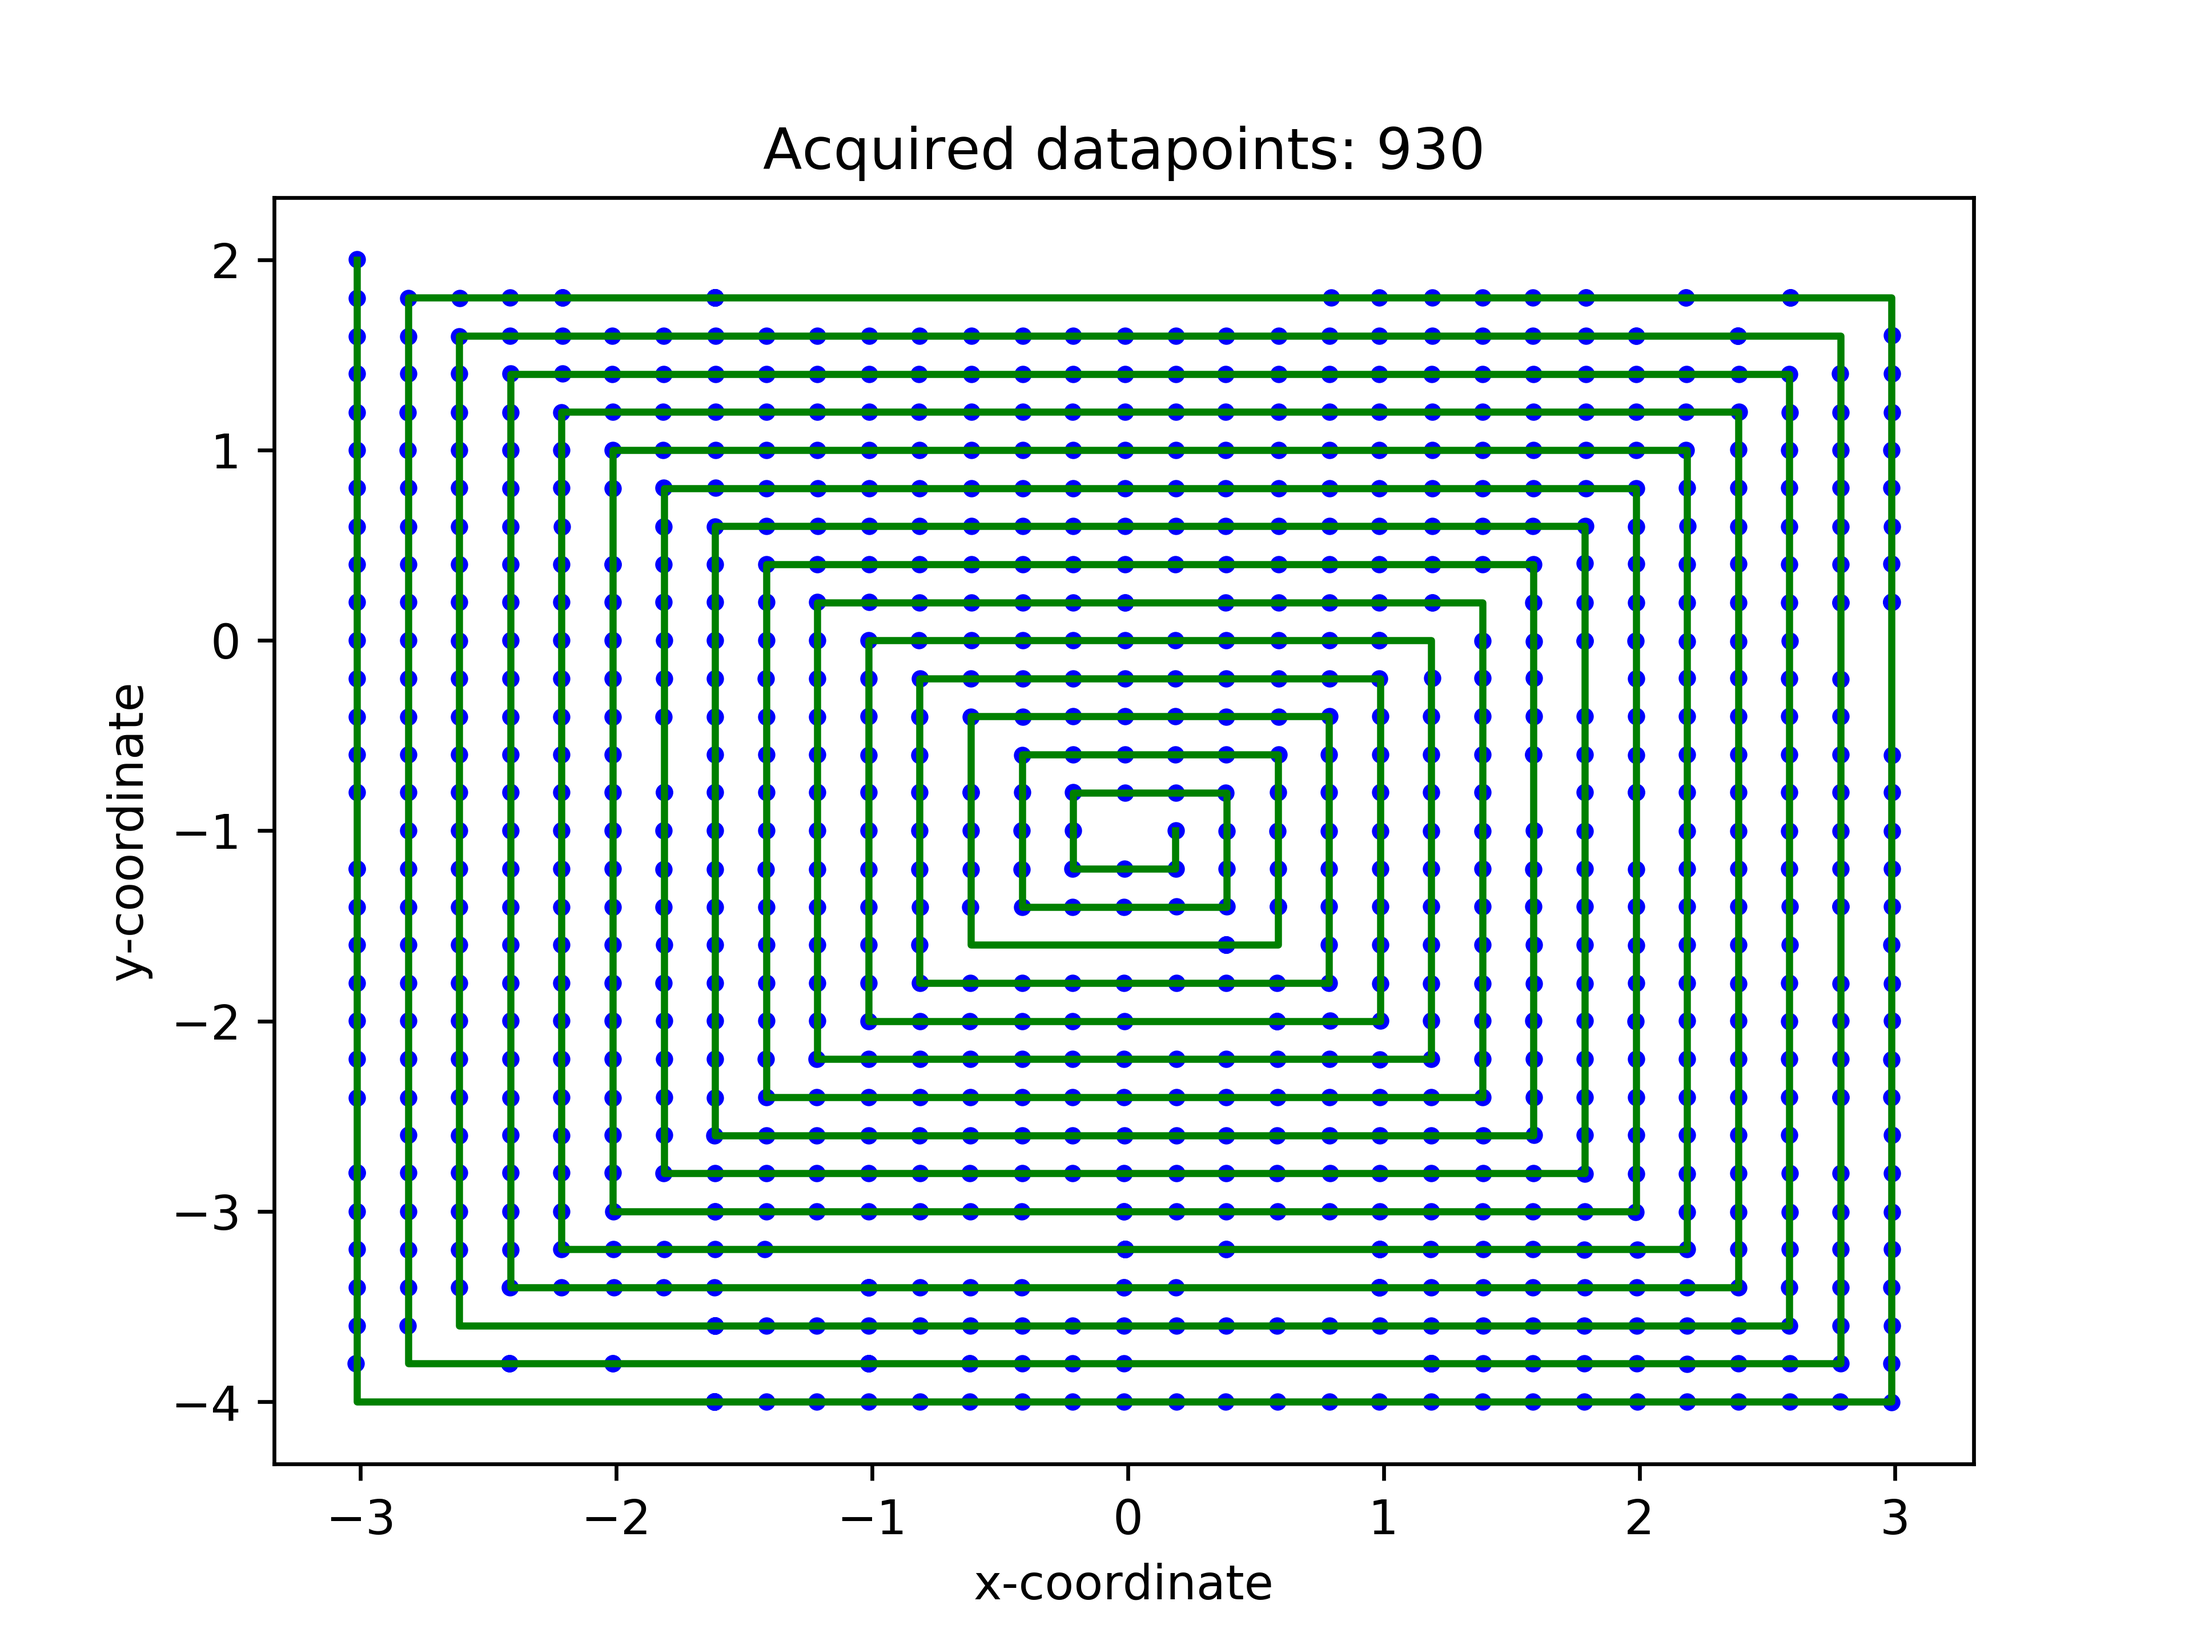
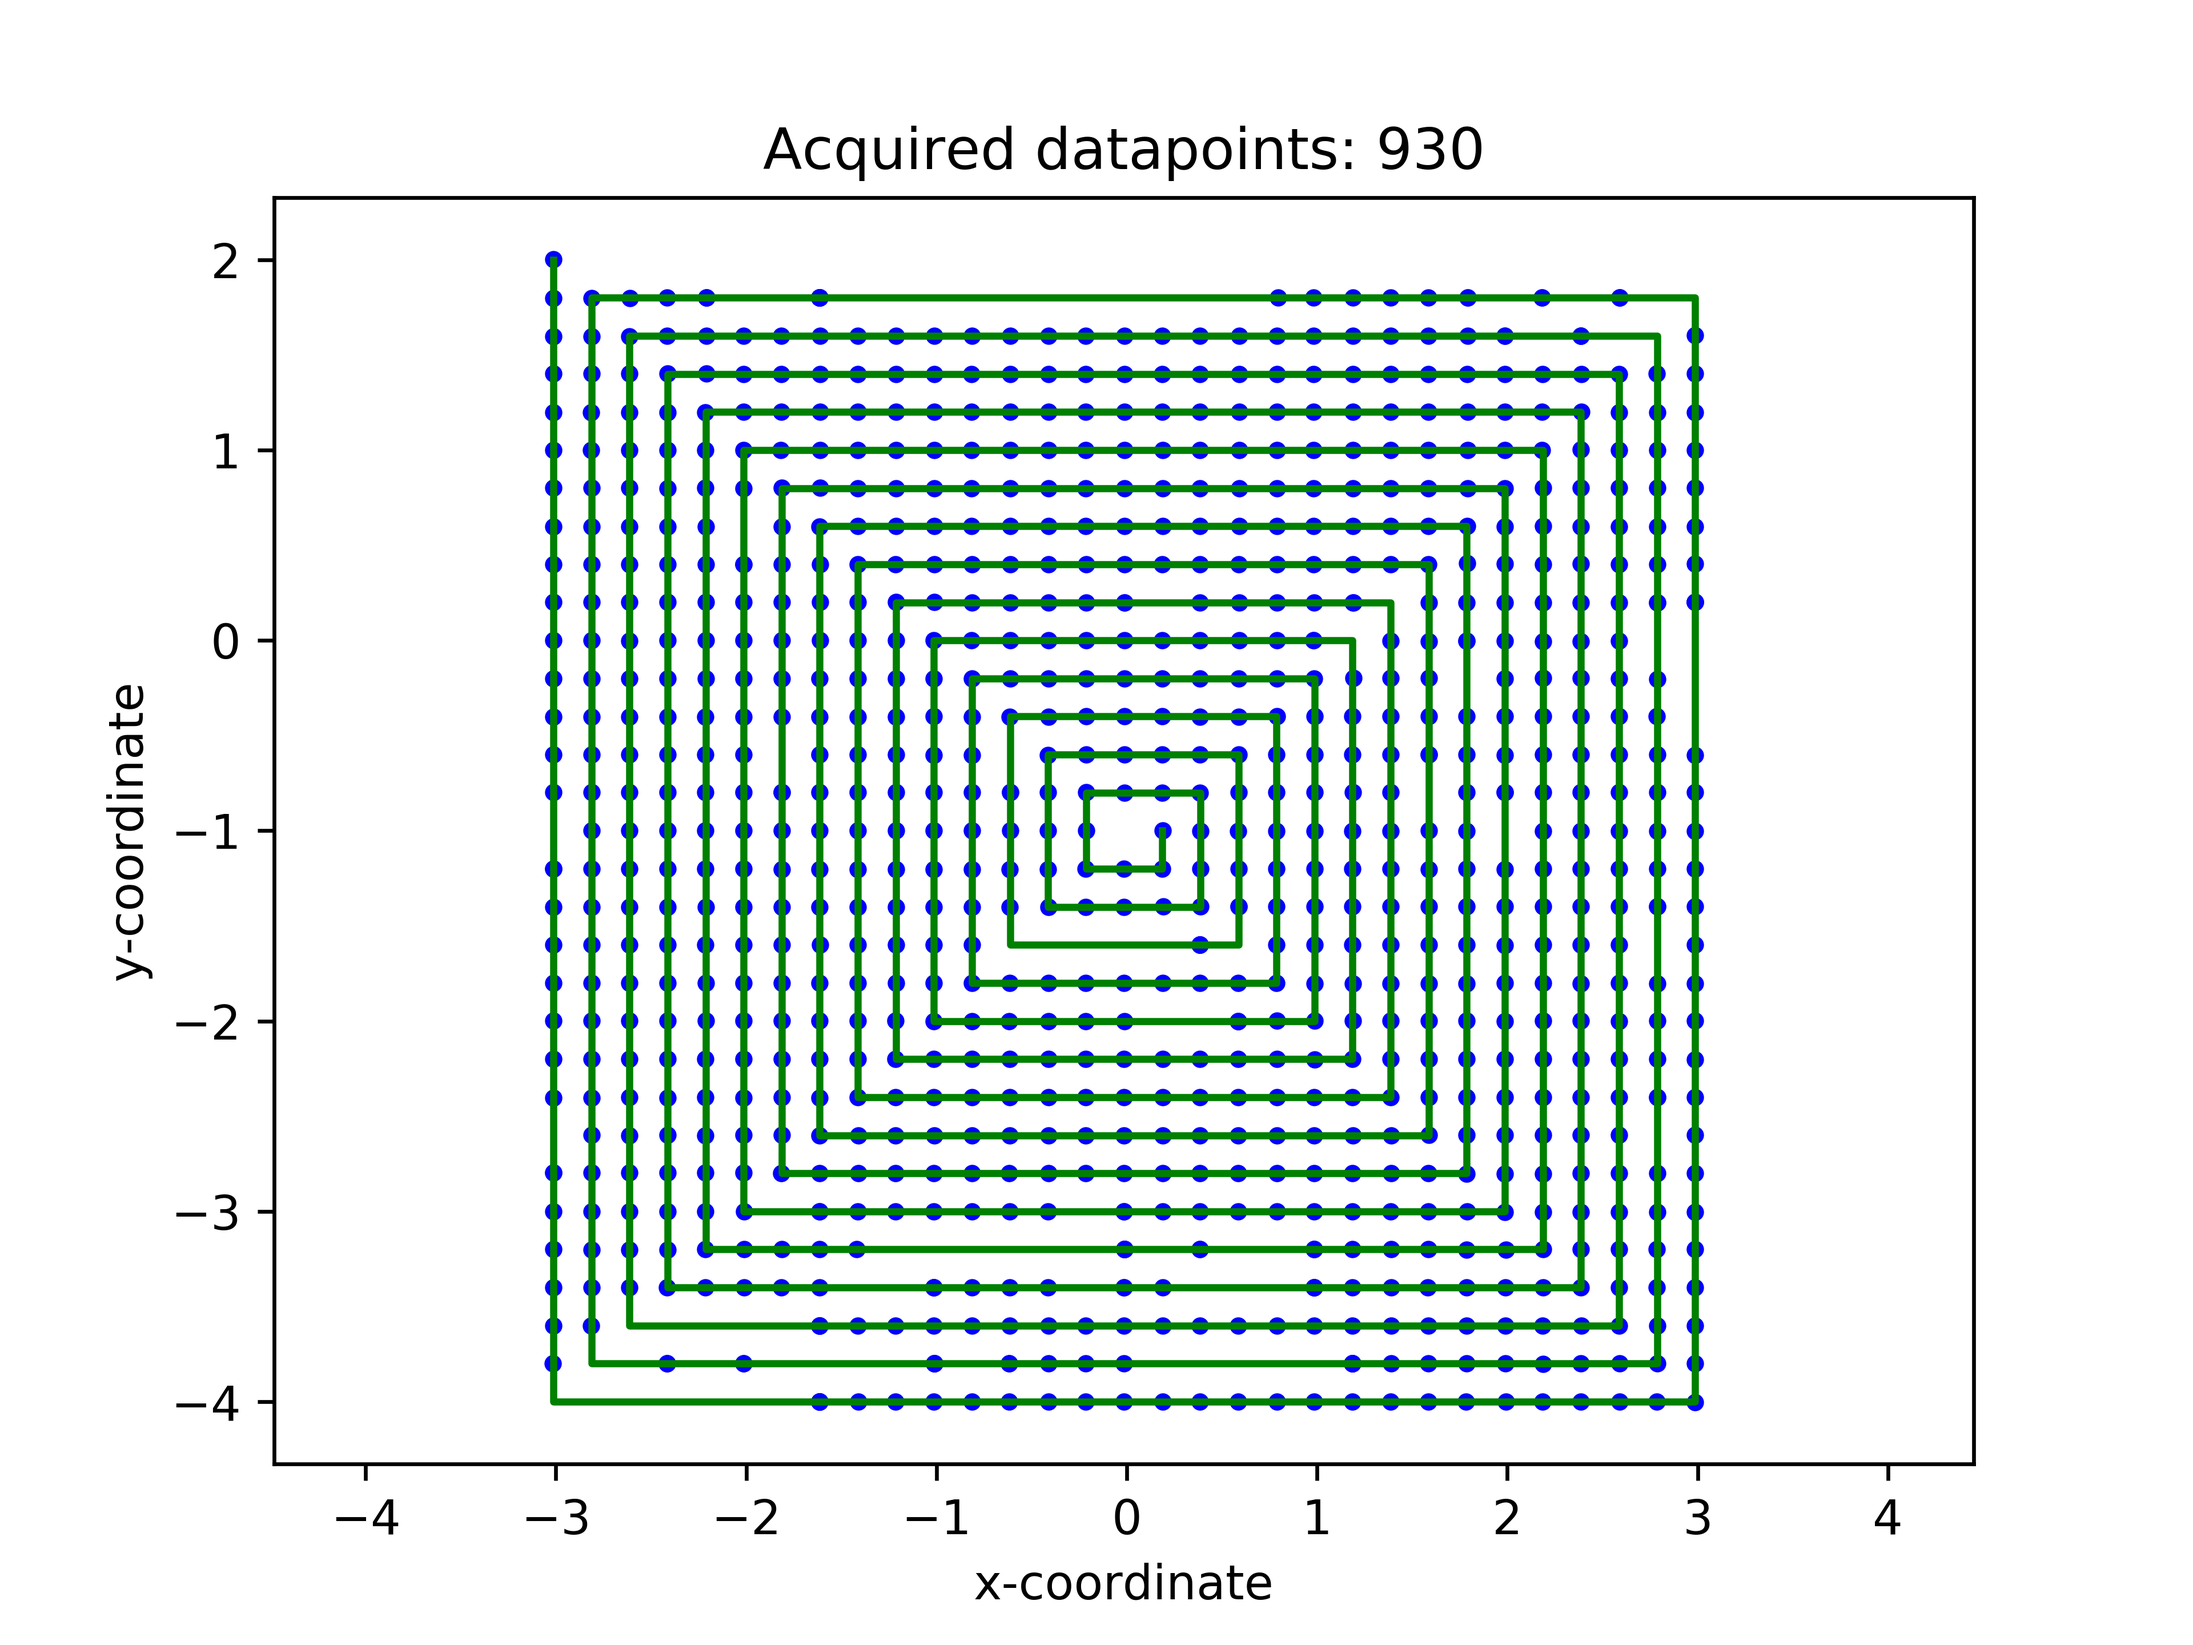
updated analysis

diff --git a/Dataanalysis_v01.py b/Dataanalysis_v01.py
@@ -6,13 +6,14 @@ Created on Wed Jun  1 14:15:40 2022
 """
 import numpy as np
 import matplotlib.pyplot as plt
+from mpl_toolkits import mplot3d
 from scipy import constants
 import os
 
 
 ### Importing E-field data
 masterpath  =   r"C:\Users\Hannah Niese\Documents\GitHub\MCLMicroDrive"
-file        =   '220606141302_data'
+file        =   '220606110017_data'
 ftype       =   '.txt'
 datafile    =   masterpath + '\\' + file + ftype
 outpath     =   masterpath + '\\analysis'
@@ -25,9 +26,11 @@ data    = np.loadtxt(datafile, delimiter=',',  skiprows=1)
 #%% plotting trajectories
 dim=len(data)
 
+
 plt.plot(data[:,1], data[:,2], color='green')
 plt.scatter(data[:,4], data[:,5], s=7, color='blue')
 
+plt.axis('equal')
 plt.xlabel('x-coordinate')
 plt.ylabel('y-coordinate')
 plt.title('Acquired datapoints: %d' % dim) 

diff --git a/readout_multimeter_v05.py b/readout_multimeter_v05.py
@@ -10,6 +10,7 @@ import time
 import csv
 import datetime
 import matplotlib.pyplot as plt
+from mpl_toolkits import mplot3d
 import numpy as np
 
 # Generate the name of the data file based on the start of the script
